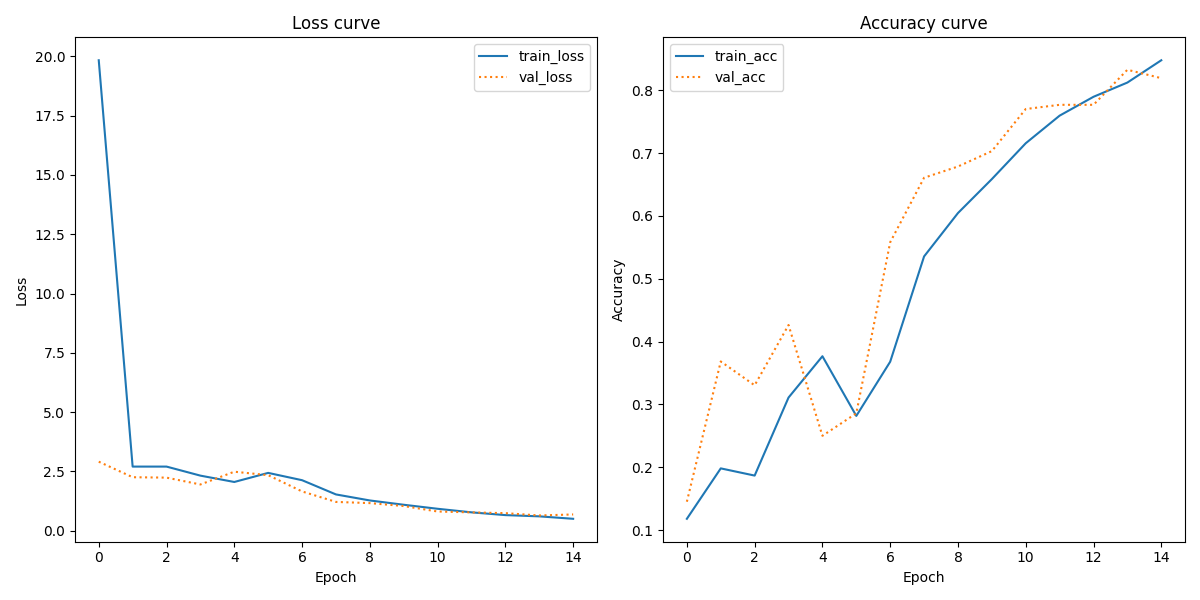
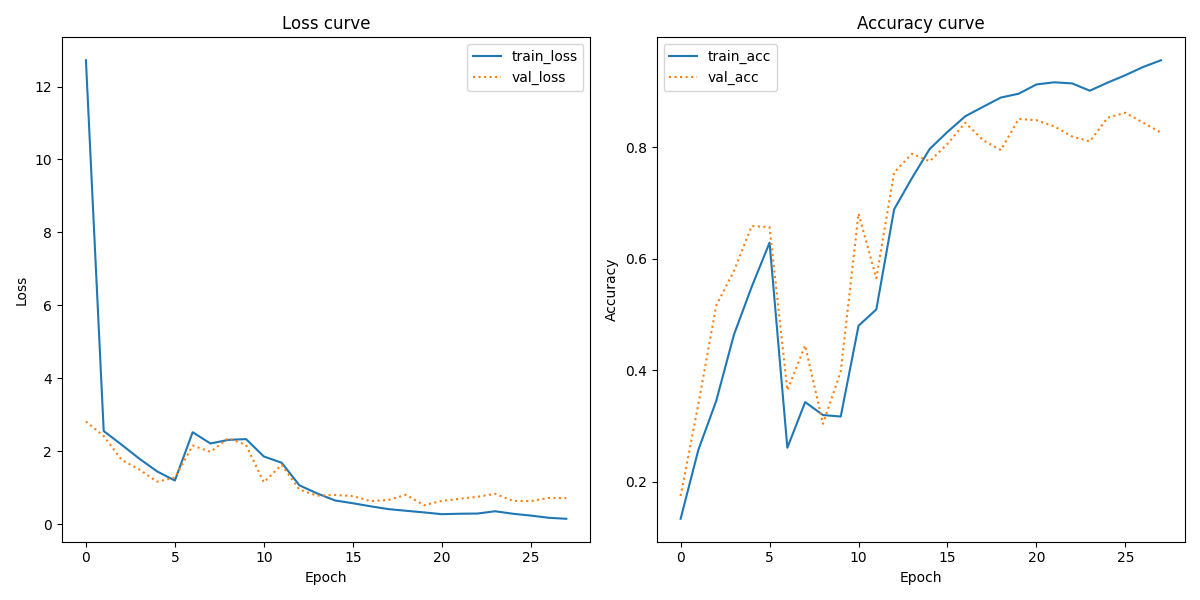
feat: assignment 3 early stopping implementation

diff --git a/src/assignment_3/models/base_classifier_model.py b/src/assignment_3/models/base_classifier_model.py
@@ -71,18 +71,31 @@ class BaseClassifierModel(ABC):
         logger.info(f"Training {self.model_type} model...")
         start_time = time.time()
 
-        # Get epochs from the appropriate config section based on model type
-        epochs = (
-            self.config.vgg16.epochs
-            if self.model_type == "vgg16"
-            else self.config.cnn.epochs
+        # Get config from the appropriate section based on model type
+        model_config = (
+            self.config.vgg16 if self.model_type == "vgg16" else self.config.cnn
         )
+
+        # Setup callbacks
+        callbacks = []
+
+        # Add early stopping if enabled
+        if model_config.early_stopping:
+            early_stopping = tf.keras.callbacks.EarlyStopping(
+                monitor="val_loss",
+                patience=model_config.early_stopping_patience,
+                min_delta=model_config.early_stopping_min_delta,
+                restore_best_weights=model_config.restore_best_weights,
+                verbose=1,
+            )
+            callbacks.append(early_stopping)
 
         # Train the model
         history = self.model.fit(
             train_dataset,
             validation_data=validation_dataset,
-            epochs=epochs,
+            epochs=model_config.epochs,
+            callbacks=callbacks,
         )
 
         training_time = time.time() - start_time

diff --git a/src/assignment_3/config.py b/src/assignment_3/config.py
@@ -20,7 +20,7 @@ class CNNConfig(BaseSettings):
 
     # Training parameters
     batch_size: int = 32
-    epochs: int = 15
+    epochs: int = 30
 
     # Model parameters
     learning_rate: float = 0.001
@@ -31,6 +31,12 @@ class CNNConfig(BaseSettings):
     pool_size: tuple[int, int] = (2, 2)
     dense_units: list[int] = [512, 256]
     dropout_rate: float = 0.5
+
+    # Early stopping parameters
+    early_stopping: bool = True
+    early_stopping_patience: int = 8
+    early_stopping_min_delta: float = 0.001
+    restore_best_weights: bool = True
 
 
 class VGG16Config(BaseSettings):
@@ -43,7 +49,7 @@ class VGG16Config(BaseSettings):
 
     # Training parameters
     batch_size: int = 32
-    epochs: int = 15
+    epochs: int = 30
 
     # Transfer learning parameters
     include_top: bool = False
@@ -57,6 +63,12 @@ class VGG16Config(BaseSettings):
     # Top layers configuration
     dense_units: list[int] = [256, 128]  # Two layers with 256 and 128 units
     dropout_rate: float = 0.5
+
+    # Early stopping parameters
+    early_stopping: bool = True
+    early_stopping_patience: int = 5
+    early_stopping_min_delta: float = 0.01
+    restore_best_weights: bool = True
 
 
 class DataConfig(BaseSettings):

diff --git a/src/assignment_3/README.md b/src/assignment_3/README.md
@@ -29,6 +29,17 @@ uv run python -m assignment_3.main
 uv run python -m assignment_3.main --data-dir /path/to/lego/data --output-dir /path/to/output
 ```
 
+## Configuration
+
+The project uses a central configuration system in `config.py` that can be modified to customize various aspects:
+
+- Data Configuration: Control image dimensions, data directory paths, and data augmentation settings
+- CNN Model Configuration: Adjust architecture parameters, learning rates, and training settings
+- VGG16 Model Configuration: Configure transfer learning parameters, fine-tuning depth, and training settings
+- Output Configuration: Set output directory paths for saving models, reports, and visualizations
+
+All settings are managed through Pydantic classes, making it easy to modify behavior without changing code.
+
 #### Command Line Arguments
 - `--data-dir`: Path to the Lego data directory (must exist and be a directory)
 - `--output-dir`: Path to save the output (default: ./src/assignment_3/output)
@@ -85,12 +96,13 @@ The custom CNN is configured with the following architecture:
 - Dropout (0.5) for regularization
 - Softmax output layer for classification
 - Adam optimizer with learning rate 0.001
-- Trained for 15 epochs
+- Early stopping with patience=8 to prevent overfitting
+- Trained for up to 30 epochs (may stop earlier with early stopping)
 
 ### VGG16 Transfer Learning Model
 - We're using VGG16 (pretrained on ImageNet) as our foundation
 - We've removed the top classification layers (include_top=False)
-- **We're fine-tuning the last 4 convolutional layers** 
+- We're fine-tuning the last 4 convolutional layers 
 - We're applying global average pooling to simplify feature maps
 - The classifier contains:
   - Two dense layers (256→128 units)
@@ -98,35 +110,28 @@ The custom CNN is configured with the following architecture:
   - Dropout (0.5) to prevent overfitting
   - Standard softmax output for classification
 - We use SGD with momentum (0.9) and a lower learning rate (0.0005)
-- We are training for 15 epochs to let fine-tuning work its magic
+- Early stopping with patience=8 to prevent overfitting
+- We are training for up to 30 epochs (may stop earlier with early stopping)
 
-#### Why We're Selectively Freezing Layers
+#### Transfer Learning Strategy
 
-The idea of only making 4 layers trainable is for the below reasons:
+Our implementation freezes earlier VGG16 layers while making only the final 4 convolutional layers trainable. This approach makes use of the hierarchical nature of convolutional networks, where initial layers capture universal visual primitives (edges, textures, basic shapes) that generalize well across domains, while deeper layers represent increasingly task-specific features. 
 
-The first layers in VGG16 are already great at finding edges, textures, and basic shapes - these work for almost any image task, including Lego bricks according to a bit of research on Google. The deeper layers are seemingly more specialized for ImageNet objects (dogs, cats, cars), which aren't very "Lego-like."
+First, it addresses the potential for overfitting given our relatively constrained dataset size. By limiting the number of trainable parameters, we create a more favorable ratio between trainable weights and available training examples.
 
-With this, we steer to model to:
-- **Stop overfitting in its tracks**: Our Lego dataset isn't huge, so training all the layers is probably slighly unreasonable.
+Second, this approach significantly reduces computational requirements compared to full fine-tuning.
 
-- **Save time and resources**: Training fewer parameters means faster iterations and less computing power needed.
+Third, the method creates an balance between knowledge transfer and domain adaptation. By preserving the robust feature extractors from VGG16's early layers (trained on millions of ImageNet images) while allowing later layers to adapt to Lego-specific characteristics,
 
-- **Get the best of both worlds**: We keep all the powerful feature detection VGG16 learned from millions of ImageNet images while adapting it to our specific Lego task.
+Finally, selective freezing provides gradient stability benefits during training. By reducing the network's effective depth from the perspective of backpropagation, we mitigate vanishing gradient issues and prevent catastrophic forgetting of useful pre-trained features.
 
-- **Gradient stability**: Prevents "catastrophic forgetting" of useful features and helps avoid vanishing/exploding gradients through the deep network.
-
-Our configuration provides flexibility through the `trainable_layers` parameter, which can be adjusted based on dataset size and similarity to ImageNet classes.
+The transfer learning configuration is parameterized through the `trainable_layers` setting, allowing experimentation with freezing strategies based on dataset characteristics and target domain similarity to the ImageNet source distribution.
 
 ### Evaluation Methodology
-- Models are evaluated using a proper three-way split:
-  - 80% training data for model training
-  - 10% validation data for early stopping
-  - 10% test data for final performance evaluation only
-- This prevents data leakage between validation and test sets, giving a more realistic estimate of model performance
-- Performance metrics include accuracy, precision, recall, and F1-score
-- Learning curves show training and validation accuracy/loss over epochs
-- Comparative analysis examines whether transfer learning improves performance
 
+Our evaluation framework implements a three-way data partitioning, allocating 80% of available data for model training, 10% for validation-based early stopping decision, and 10% for unbiased final performance assessment. This approach prevents potential data leakage between model selection and evaluation phases, giving a more realistic estimate of model performance.
+
+Performance quantification incorporates both primary metrics (accuracy) and secondary distributional metrics (precision, recall, F1-score) to provide insight into classification behavior across all class categories. Temporal learning dynamics are visualized through epoch-wise training and validation metrics, enabling identification of potential optimization issues including underfitting, overfitting, and convergence patterns.
 
 ## Results
 
@@ -134,13 +139,13 @@ Our experiments with two different approaches to Lego brick classification yield
 
 ### Overall Performance Comparison
 
-The CNN model achieved respectable performance with a test accuracy of 82.69% after 15 epochs of training. Starting from around 12% accuracy, the model showed consistent improvement throughout training, with validation accuracy reaching 81.92% by the final epoch - closely tracking the training accuracy of 84.77%. This alignment between training and validation metrics indicates the model generalized well to unseen data within our 80-10-10 split.
+The CNN model achieved respectable performance with a test accuracy of 84.40% after 28 epochs of training. Starting from around 10% accuracy, the model showed consistent improvement throughout training, with validation accuracy reaching 85.04% by epoch 20 (the best validation epoch). The training accuracy continued to increase to 95.60% by the final epoch, suggesting some potential overfitting despite early stopping being applied. The model seems to have generalized well to unseen data within our 80-10-10 split.
 
-The VGG16 transfer learning approach delivered superior performance, reaching 95.51% test accuracy - approximately a 13 percentage point improvement over the custom CNN. Interestingly, the VGG16 model showed rapid initial learning, with validation accuracy (94.42%) actually exceeding training accuracy (91.29%) in the final epoch, strongly suggesting that the pre-trained features transferred effectively to our Lego classification task.
+The VGG16 transfer learning approach delivered superior performance, reaching 95.51% test accuracy - approximately an 11 percentage point improvement over the custom CNN. Interestingly, the VGG16 model showed rapid initial learning, with validation accuracy (94.42%) actually exceeding training accuracy (91.29%) in the final epoch, strongly suggesting that the pre-trained features transferred effectively to our Lego classification task.
 
 ### Learning Comparison
 
-The custom CNN showed a gradual, steady learning curve with both training and validation metrics improving consistently across epochs. The narrow gap between final training (84.77%) and validation (81.92%) accuracies suggests the model found a good balance between fitting the training data and generalizing to the validation set.
+The custom CNN showed a somewhat uneven learning curve with fluctuations in validation metrics, though with an overall positive trajectory. The training accuracy steadily increased to 95.60% by the final epoch, while validation accuracy peaked at 85.04% in epoch 20 before declining slightly, triggering early stopping. This growing gap between training and validation metrics indicates the model was beginning to overfit to the training data.
 
 The VGG16 model exhibited more dynamic learning behavior, with some fluctuations in validation accuracy but an overall stronger trajectory. By epoch 8, it had already achieved validation accuracy above 93%. The final validation accuracy of 94.42% actually exceeds the training accuracy of 91.29%, and this pattern continues with the test accuracy of 95.51% - a sign of excellent generalization across all three data splits.
 
@@ -158,7 +163,7 @@ The performance difference between the models underscores that transfer learning
 
 ### Limitations
 
-We did not perform hyperparameter optimization for either model, instead using fixed configurations based on common practices. The training process runs for a predetermined number of epochs (15) without implementing early stopping based on validation performance. This means models may train longer than necessary, or potentially benefit from additional training epochs. Additionally, we limited our exploration to specific architectures: a basic CNN and VGG16 transfer learning, without comparing against other model architectures or transfer learning approaches. Different data augmentation strategies or more extensive fine-tuning of the VGG16 layers might yield even better results. These limitations present opportunities for future work to further improve performance on the Lego classification task.
+We did not perform hyperparameter optimization for either model, instead using fixed configurations based on common practices. We implemented early stopping with a patience of 8 epochs based on validation performance to prevent overfitting. Additionally, we limited our exploration to specific architectures: a basic CNN and VGG16 transfer learning, without comparing against other model architectures or transfer learning approaches. Different data augmentation strategies or more extensive fine-tuning of the VGG16 layers might yield even better results. These limitations present opportunities for future work to further improve performance on the Lego classification task.
 
 ## Requirements
 - TensorFlow 2.x
